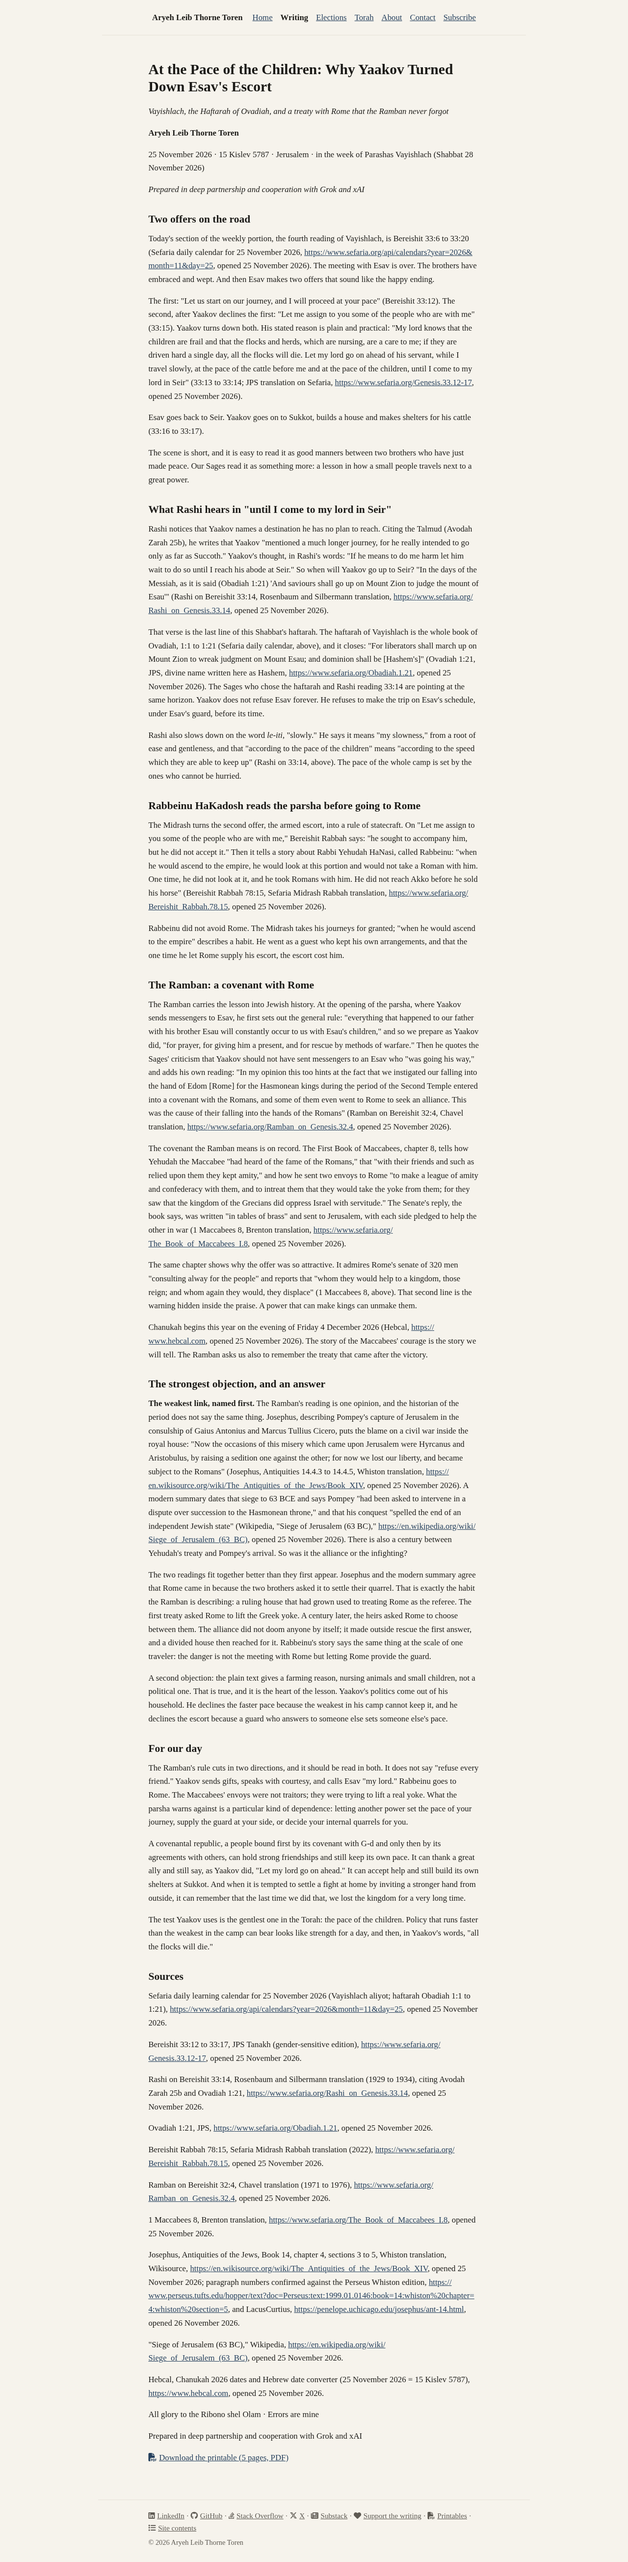
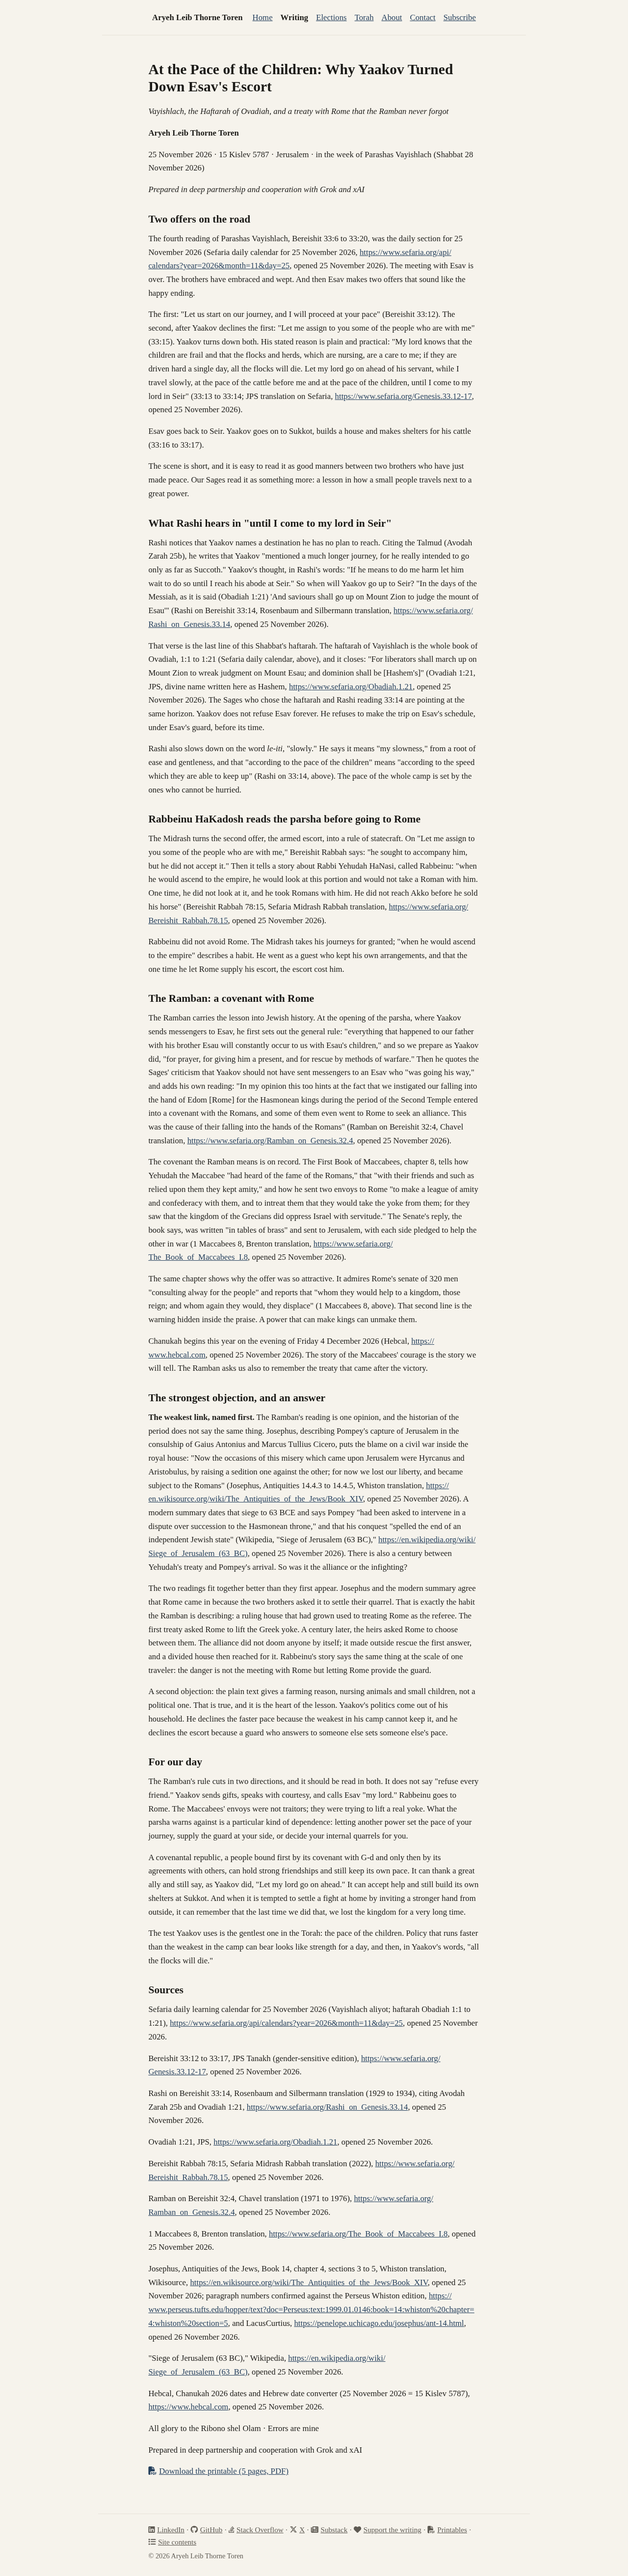
At the Pace of the Children: Grok's v2 (daily-section line), page + PDF, screenshots

Changed region(s): [[0.2188, 0.0311, 0.75, 0.963]]

diff --git a/writing/at-the-pace-of-the-children.html b/writing/at-the-pace-of-the-children.html
@@ -100,7 +100,7 @@
 <p><time datetime="2026-11-25">25 November 2026</time> · 15 Kislev 5787 · Jerusalem · in the week of Parashas Vayishlach (Shabbat 28 November 2026)</p>
 <p><em>Prepared in deep partnership and cooperation with Grok and xAI</em></p>
 <h2>Two offers on the road</h2>
-<p>Today's section of the weekly portion, the fourth reading of Vayishlach, is Bereishit 33:6 to 33:20 (Sefaria daily calendar for 25 November 2026, <a href="https://www.sefaria.org/api/calendars?year=2026&amp;month=11&amp;day=25" rel="noopener">https:/<wbr>/<wbr>www.sefaria.org/<wbr>api/<wbr>calendars?<wbr>year=<wbr>2026&amp;<wbr>month=<wbr>11&amp;<wbr>day=<wbr>25</a>, opened 25 November 2026). The meeting with Esav is over. The brothers have embraced and wept. And then Esav makes two offers that sound like the happy ending.</p>
+<p>The fourth reading of Parashas Vayishlach, Bereishit 33:6 to 33:20, was the daily section for 25 November 2026 (Sefaria daily calendar for 25 November 2026, <a href="https://www.sefaria.org/api/calendars?year=2026&amp;month=11&amp;day=25" rel="noopener">https:/<wbr>/<wbr>www.sefaria.org/<wbr>api/<wbr>calendars?<wbr>year=<wbr>2026&amp;<wbr>month=<wbr>11&amp;<wbr>day=<wbr>25</a>, opened 25 November 2026). The meeting with Esav is over. The brothers have embraced and wept. And then Esav makes two offers that sound like the happy ending.</p>
 <p>The first: "Let us start on our journey, and I will proceed at your pace" (Bereishit 33:12). The second, after Yaakov declines the first: "Let me assign to you some of the people who are with me" (33:15). Yaakov turns down both. His stated reason is plain and practical: "My lord knows that the children are frail and that the flocks and herds, which are nursing, are a care to me; if they are driven hard a single day, all the flocks will die. Let my lord go on ahead of his servant, while I travel slowly, at the pace of the cattle before me and at the pace of the children, until I come to my lord in Seir" (33:13 to 33:14; JPS translation on Sefaria, <a href="https://www.sefaria.org/Genesis.33.12-17" rel="noopener">https:/<wbr>/<wbr>www.sefaria.org/<wbr>Genesis.33.12-17</a>, opened 25 November 2026).</p>
 <p>Esav goes back to Seir. Yaakov goes on to Sukkot, builds a house and makes shelters for his cattle (33:16 to 33:17).</p>
 <p>The scene is short, and it is easy to read it as good manners between two brothers who have just made peace. Our Sages read it as something more: a lesson in how a small people travels next to a great power.</p>
